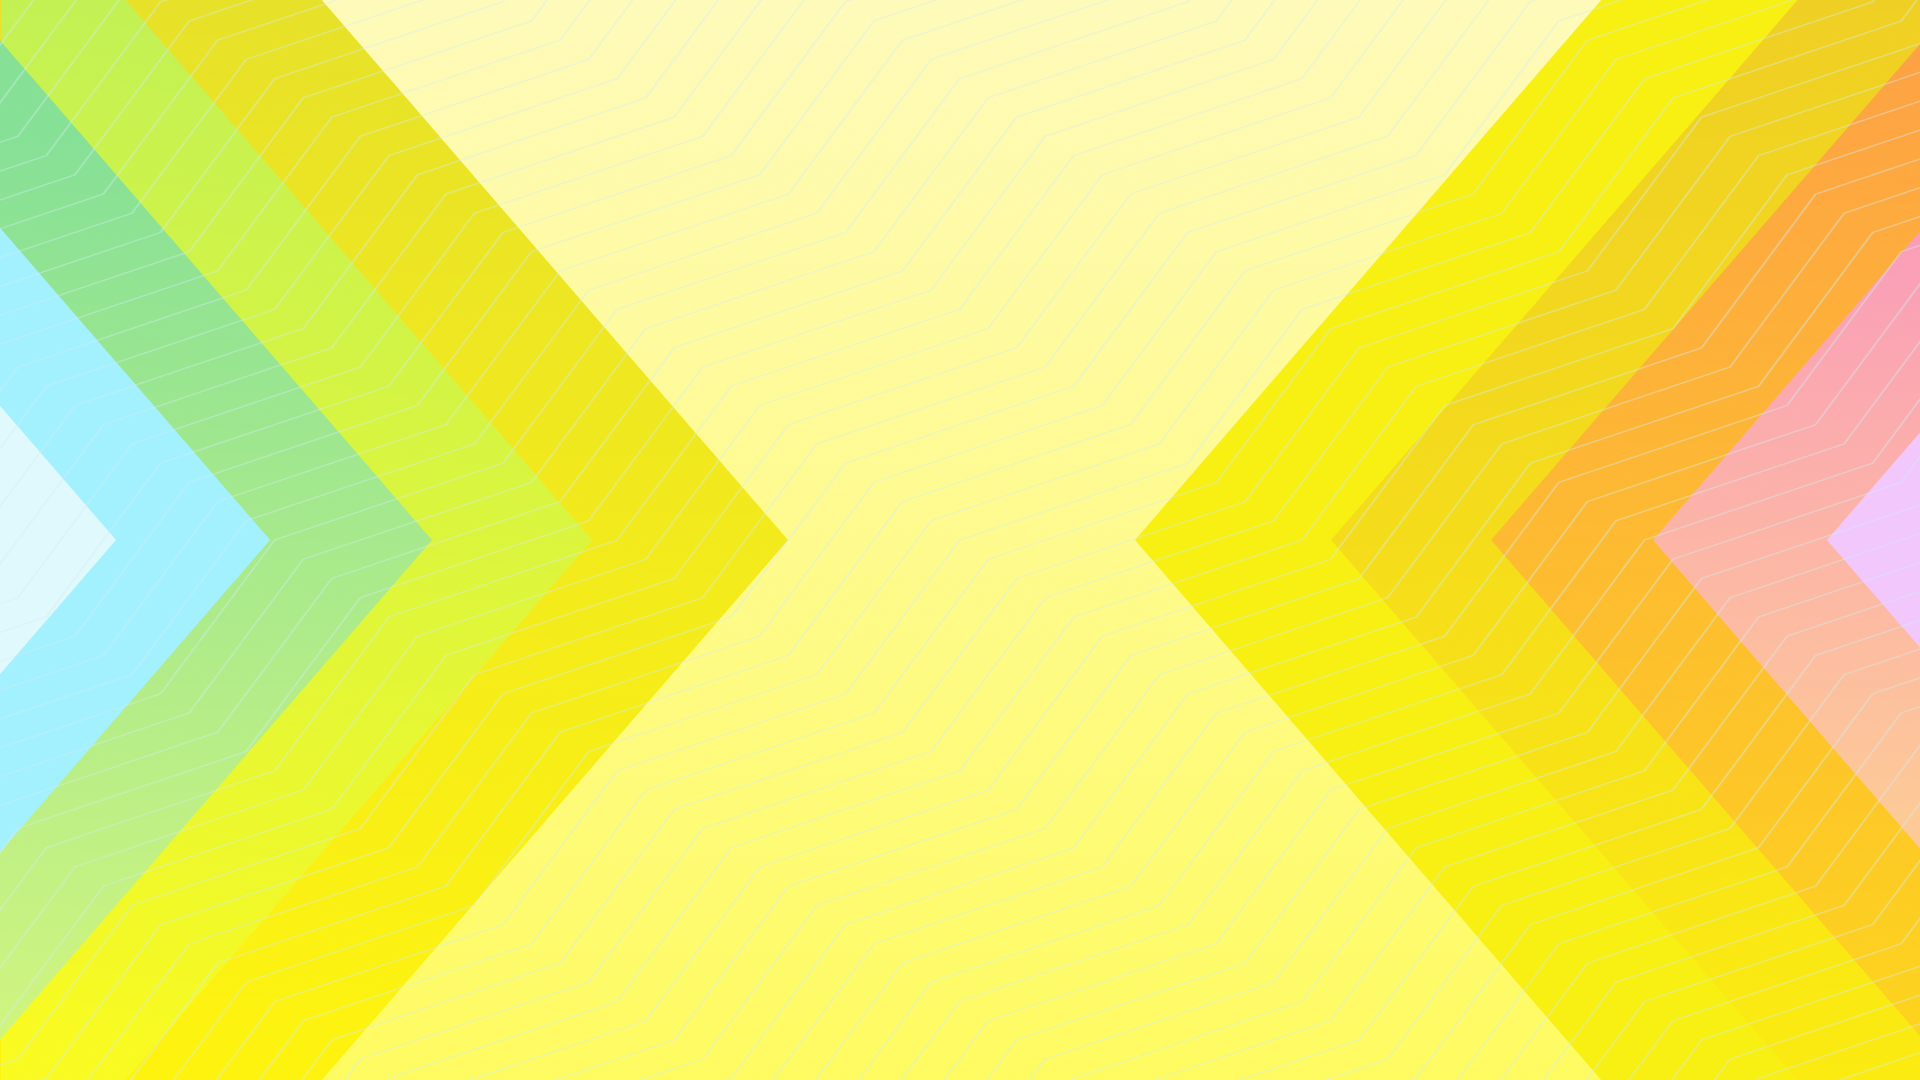
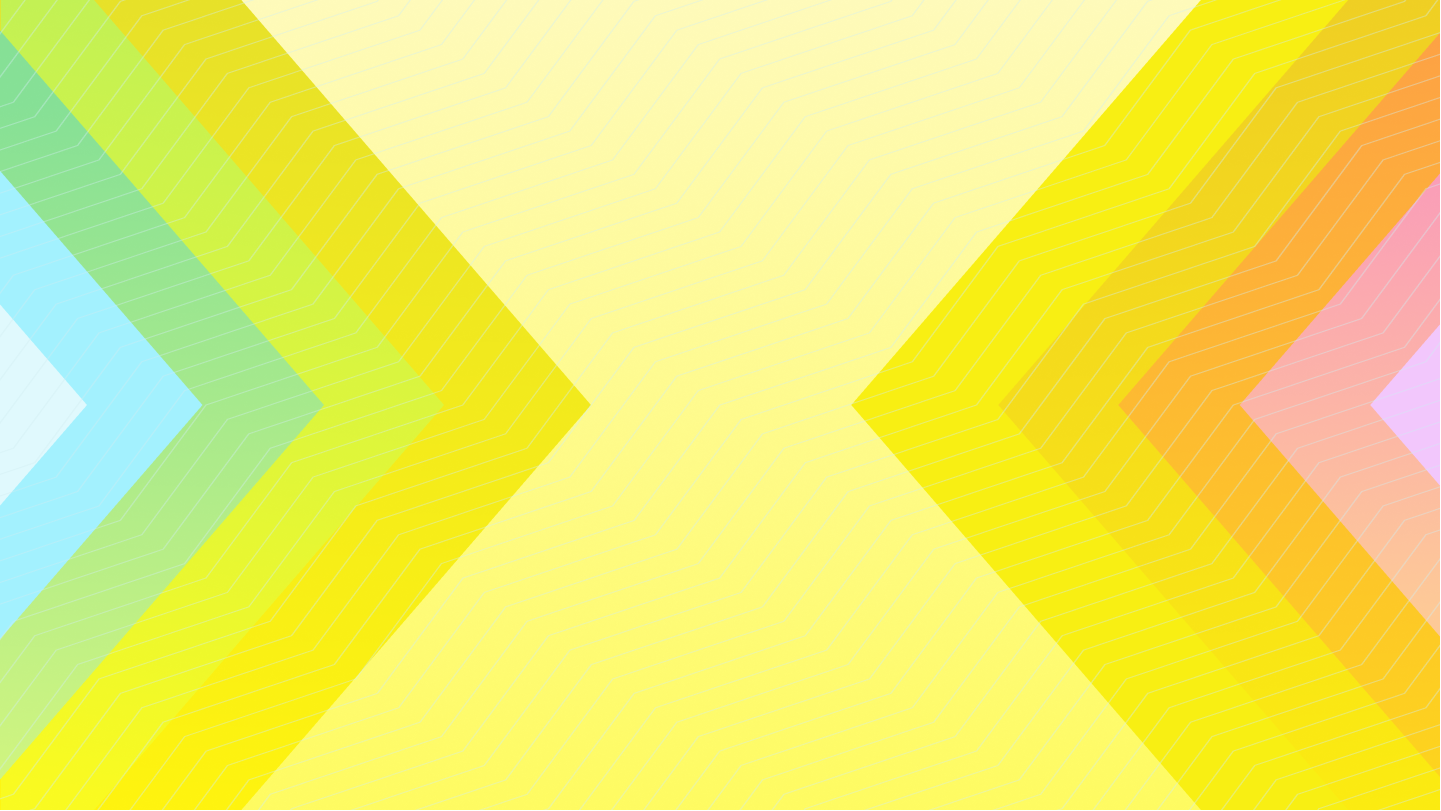
hosted the bg image on postimage for quick load

diff --git a/app/Banner.tsx b/app/Banner.tsx
@@ -48,13 +48,15 @@ const Banner = () => {
       },
    });
 
+   const background = "https://i.postimg.cc/8CNxXp83/Background.png";
+
    if (loading) return <p>Loading...</p>;
    if (error) return <p>Error: {error?.message}...</p>;
 
    return (
       <section
          className={`lg:h-screen bg-no-repeat w-full bg-cover bg-center relative`}
-         style={{ backgroundImage: `url(${backgroundImage.src})` }}
+         style={{ backgroundImage: `url(${background})` }}
       >
          <Logo />
 
